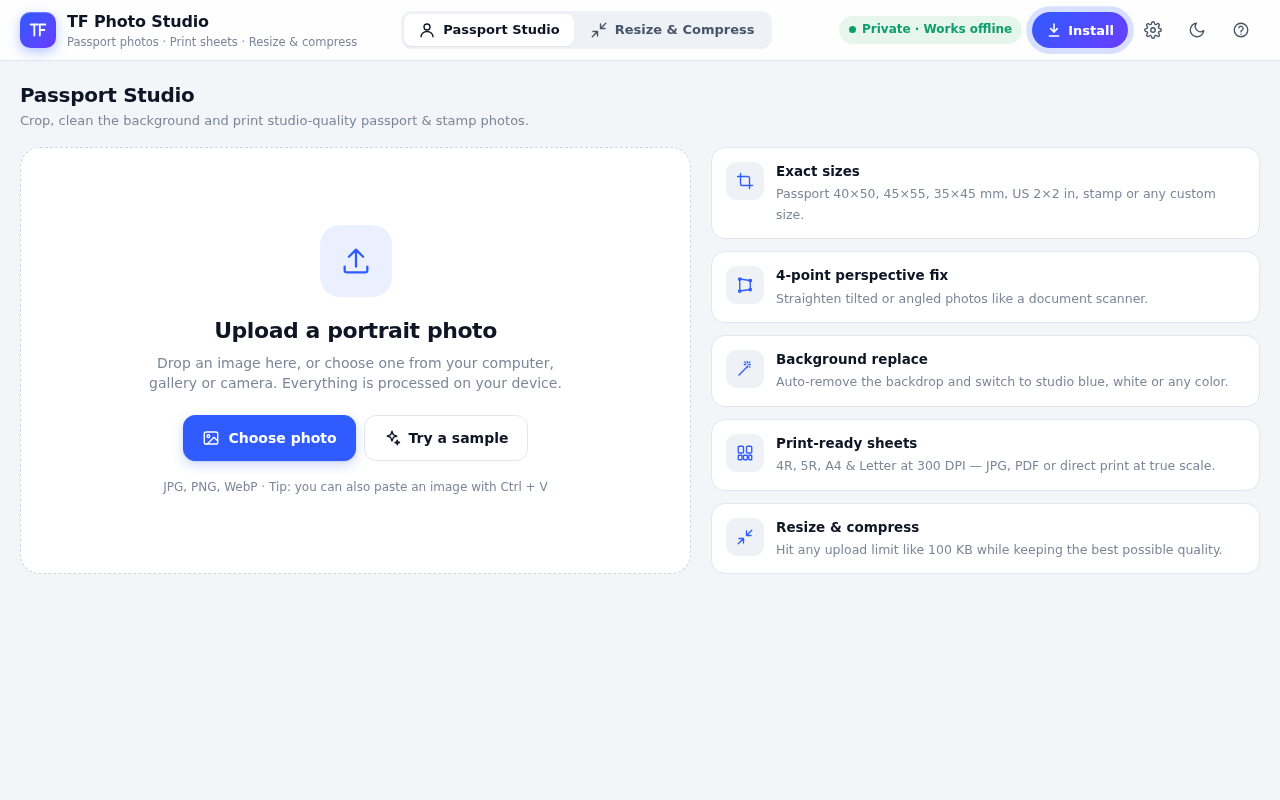
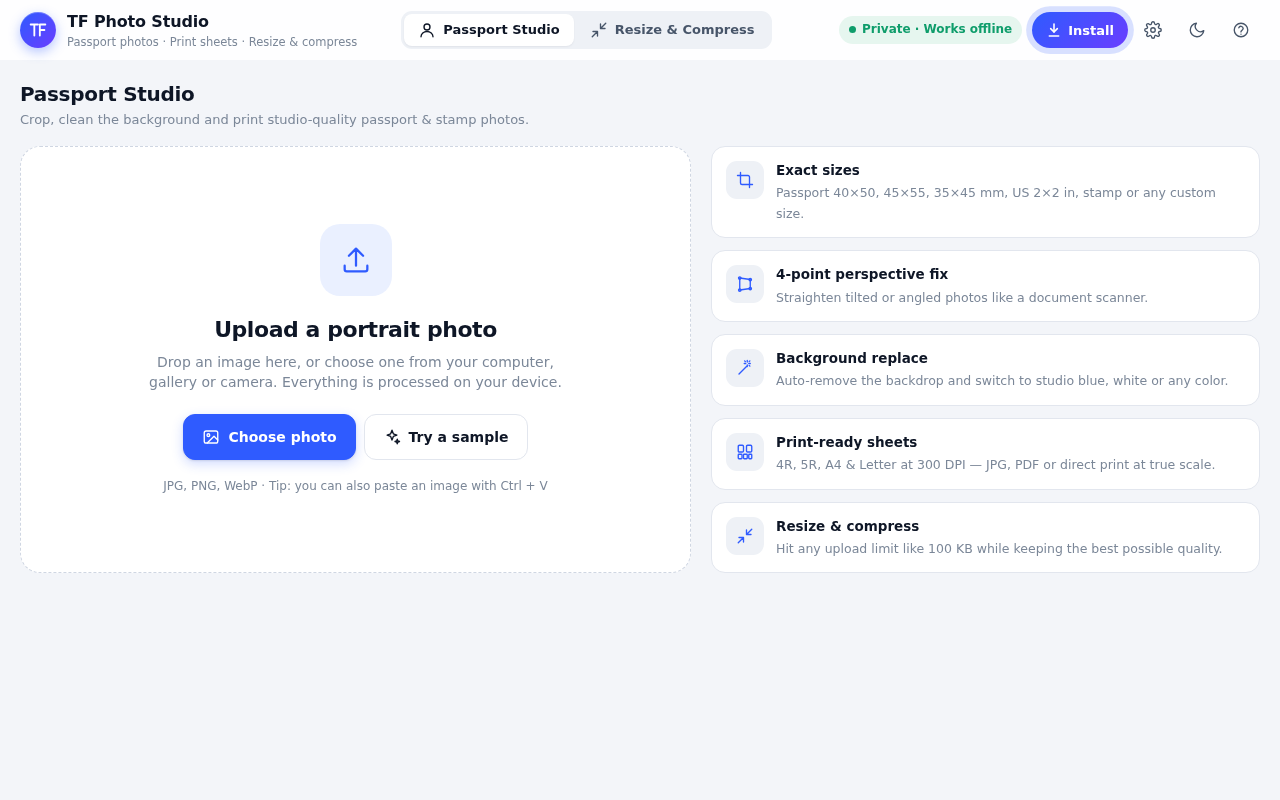
Update CSS to match Material Design 3 (Native Android) UI expectations
- Updated primary buttons to have a minimum touch target height of 48px and a 999px pill-shaped border radius.
- Re-styled the bottom navigation active state to feature a pill-shaped background behind the icon, matching standard Android MD3 behavior.
- Increased `.card` and `:root` border radii to provide a softer, modern feel.
- Modified the top application bar and logo styling to align with Android native design patterns.
- Adjusted base application padding on mobile devices for improved readability and spacing.

diff --git a/index.html b/index.html
@@ -23,7 +23,7 @@
   --shadow-sm:0 1px 2px rgba(16,24,40,.06);
   --shadow:0 1px 2px rgba(16,24,40,.05),0 4px 14px rgba(16,24,40,.06);
   --shadow-lg:0 10px 40px rgba(16,24,40,.16);
-  --radius:14px; --radius-sm:10px;
+  --radius:24px; --radius-sm:16px;
   --stage:#e9edf3; --checker:#dfe4ec;
   --font:"Segoe UI Variable Text","Segoe UI",system-ui,-apple-system,"SF Pro Text",Roboto,"Helvetica Neue",Arial,sans-serif;
   --mono:"Cascadia Mono","SF Mono",Consolas,ui-monospace,monospace;
@@ -50,10 +50,10 @@ svg.ic{width:18px;height:18px;flex:none;stroke:currentColor;fill:none;stroke-wid
 .num{font-variant-numeric:tabular-nums}
 
 /* ---------- Top bar ---------- */
-.topbar{position:sticky;top:0;z-index:40;background:color-mix(in srgb,var(--surface) 88%,transparent);backdrop-filter:saturate(1.4) blur(12px);-webkit-backdrop-filter:saturate(1.4) blur(12px);border-bottom:1px solid var(--border);padding-top:env(safe-area-inset-top)}
+.topbar{position:sticky;top:0;z-index:40;background:color-mix(in srgb,var(--surface) 88%,transparent);backdrop-filter:saturate(1.4) blur(12px);-webkit-backdrop-filter:saturate(1.4) blur(12px);padding-top:env(safe-area-inset-top)}
 .topbar-in{max-width:1440px;margin:0 auto;height:60px;padding:0 20px;display:flex;align-items:center;gap:16px}
 .brand{display:flex;align-items:center;gap:11px;min-width:0}
-.logo{width:36px;height:36px;border-radius:10px;flex:none;display:grid;place-items:center;background:linear-gradient(135deg,#2f5bff 0%,#6a3dff 100%);box-shadow:0 4px 12px rgba(47,91,255,.35),inset 0 1px 0 rgba(255,255,255,.25)}
+.logo{width:36px;height:36px;border-radius:50%;flex:none;display:grid;place-items:center;background:linear-gradient(135deg,#2f5bff 0%,#6a3dff 100%);box-shadow:0 4px 12px rgba(47,91,255,.35),inset 0 1px 0 rgba(255,255,255,.25)}
 .logo svg{width:22px;height:22px}
 .brand-t{font-weight:700;font-size:16px;letter-spacing:-.01em;white-space:nowrap}
 .brand-s{font-size:11.5px;color:var(--text-3);white-space:nowrap;margin-top:1px}
@@ -113,7 +113,7 @@ svg.ic{width:18px;height:18px;flex:none;stroke:currentColor;fill:none;stroke-wid
 .stack{display:flex;flex-direction:column;gap:10px}
 
 /* ---------- Buttons ---------- */
-.btn{border:1px solid var(--border);background:var(--surface);color:var(--text);height:38px;padding:0 14px;border-radius:10px;font-weight:600;font-size:13px;display:inline-flex;align-items:center;justify-content:center;gap:8px;transition:background .15s,border-color .15s,color .15s,transform .08s,box-shadow .15s;white-space:nowrap;user-select:none}
+.btn{border:1px solid var(--border);background:var(--surface);color:var(--text);height:48px;padding:0 20px;border-radius:999px;font-weight:600;font-size:14px;display:inline-flex;align-items:center;justify-content:center;gap:8px;transition:background .15s,border-color .15s,color .15s,transform .08s,box-shadow .15s;white-space:nowrap;user-select:none}
 .btn:hover{background:var(--surface-2);border-color:var(--border-strong)}
 .btn:active{transform:translateY(1px)}
 .btn:disabled{opacity:.45;pointer-events:none}
@@ -338,7 +338,7 @@ input[type=range]:active::-webkit-slider-thumb{transform:scale(1.15)}
   body{font-size:14.5px}
   .topbar-in{height:56px;padding:0 14px;gap:10px}
   .nav-seg,.status-pill,.brand-s{display:none}
-  .app{padding:12px 12px calc(84px + env(safe-area-inset-bottom))}
+  .app{padding:16px 16px calc(84px + env(safe-area-inset-bottom))}
   .workspace{grid-template-columns:1fr;gap:12px}
   .stage{position:relative;top:0;order:-1}
   .stage-body{height:56vh;height:56dvh;min-height:300px;padding:10px}
@@ -351,8 +351,9 @@ input[type=range]:active::-webkit-slider-thumb{transform:scale(1.15)}
   .hero-side{display:grid;grid-template-columns:1fr;gap:8px}
   .bottomnav{display:flex;position:fixed;left:0;right:0;bottom:0;z-index:50;background:color-mix(in srgb,var(--surface) 92%,transparent);backdrop-filter:blur(14px);-webkit-backdrop-filter:blur(14px);border-top:1px solid var(--border);padding:6px 8px calc(6px + env(safe-area-inset-bottom))}
   .bottomnav button{flex:1;border:0;background:transparent;display:flex;flex-direction:column;align-items:center;gap:3px;padding:6px 0;font-size:11px;font-weight:600;color:var(--text-3);border-radius:10px}
-  .bottomnav button svg.ic{width:22px;height:22px}
-  .bottomnav button.on{color:var(--accent)}
+  .bottomnav button svg.ic{width:24px;height:24px}
+  .bottomnav button.on{color:var(--text)}
+  .bottomnav button.on svg.ic{background:var(--accent-soft);color:var(--accent);padding:4px 16px;border-radius:999px;width:56px;box-sizing:border-box}
   .toasts{left:12px;right:12px;bottom:calc(80px + env(safe-area-inset-bottom));align-items:center}
   .conv-body{min-height:0}
   .modal{padding:0;align-items:flex-end}

diff --git a/verification_script.py b/verification_script.py
@@ -1,0 +1,27 @@
+from playwright.sync_api import sync_playwright
+import os
+
+def run_cuj(page):
+    page.goto("http://localhost:8000/index.html")
+    page.wait_for_timeout(1000)
+
+    # Take a screenshot to verify the new styling
+    page.screenshot(path="/home/jules/verification/screenshots/verification.png")
+    page.wait_for_timeout(1000)
+
+if __name__ == "__main__":
+    os.makedirs("/home/jules/verification/videos", exist_ok=True)
+    os.makedirs("/home/jules/verification/screenshots", exist_ok=True)
+    with sync_playwright() as p:
+        browser = p.chromium.launch(headless=True)
+        # Record video using context
+        context = browser.new_context(
+            record_video_dir="/home/jules/verification/videos",
+            viewport={"width": 412, "height": 915} # mobile sized viewport
+        )
+        page = context.new_page()
+        try:
+            run_cuj(page)
+        finally:
+            context.close()  # MUST close context to save the video
+            browser.close()
